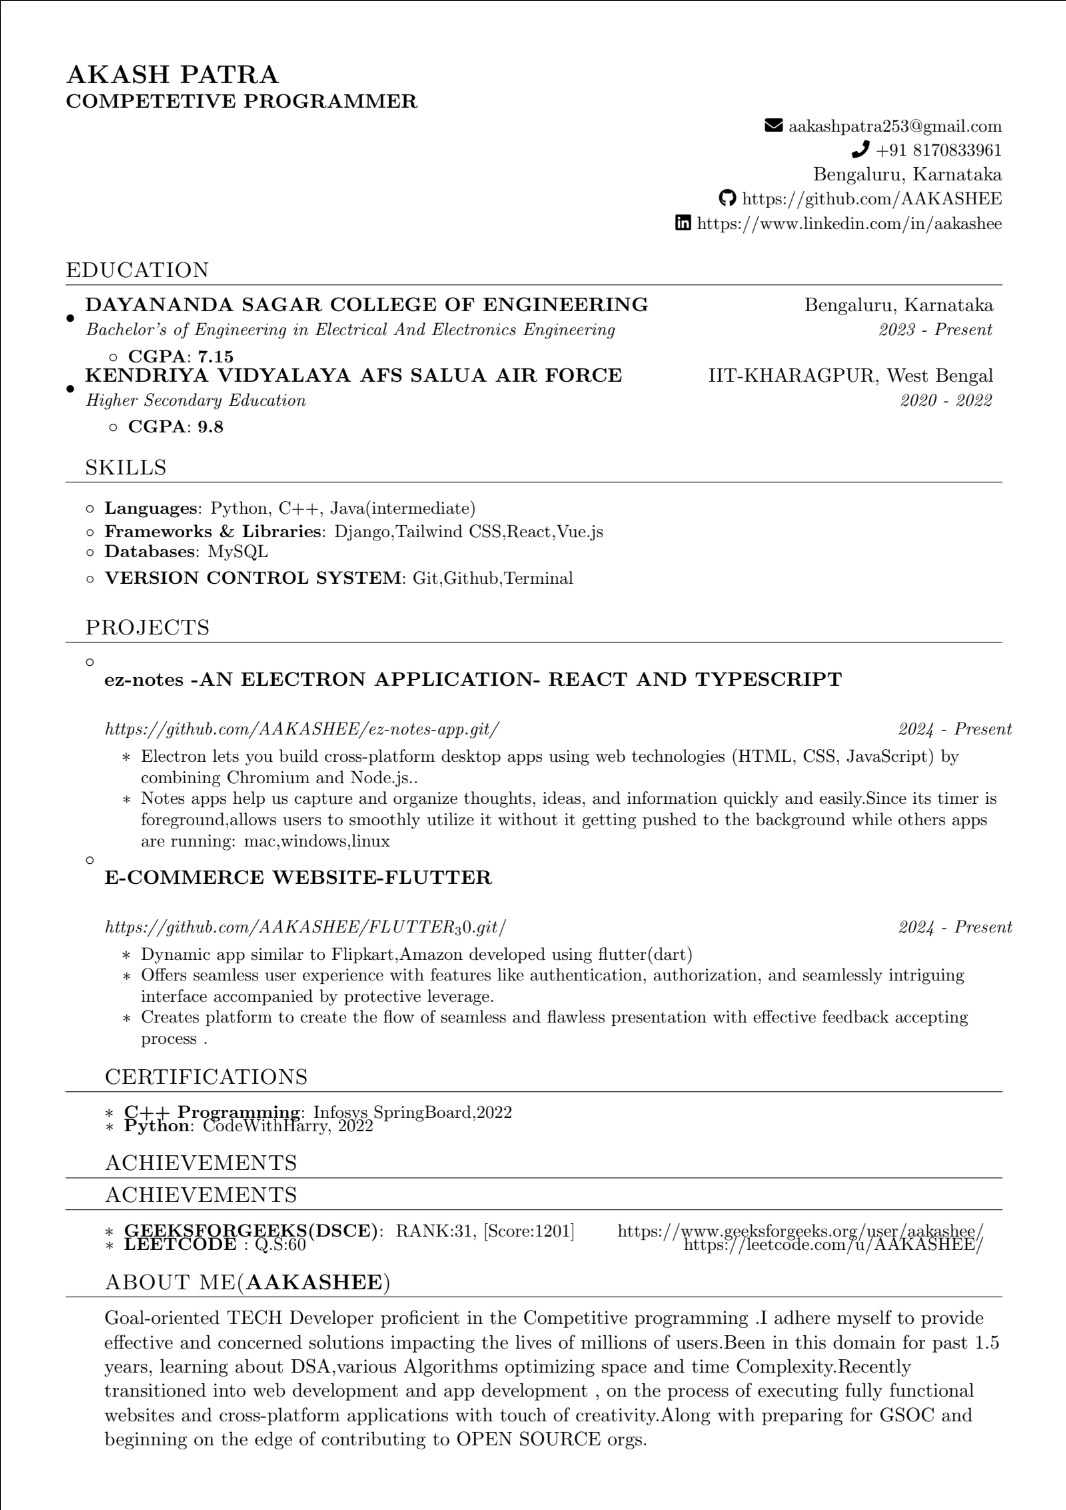
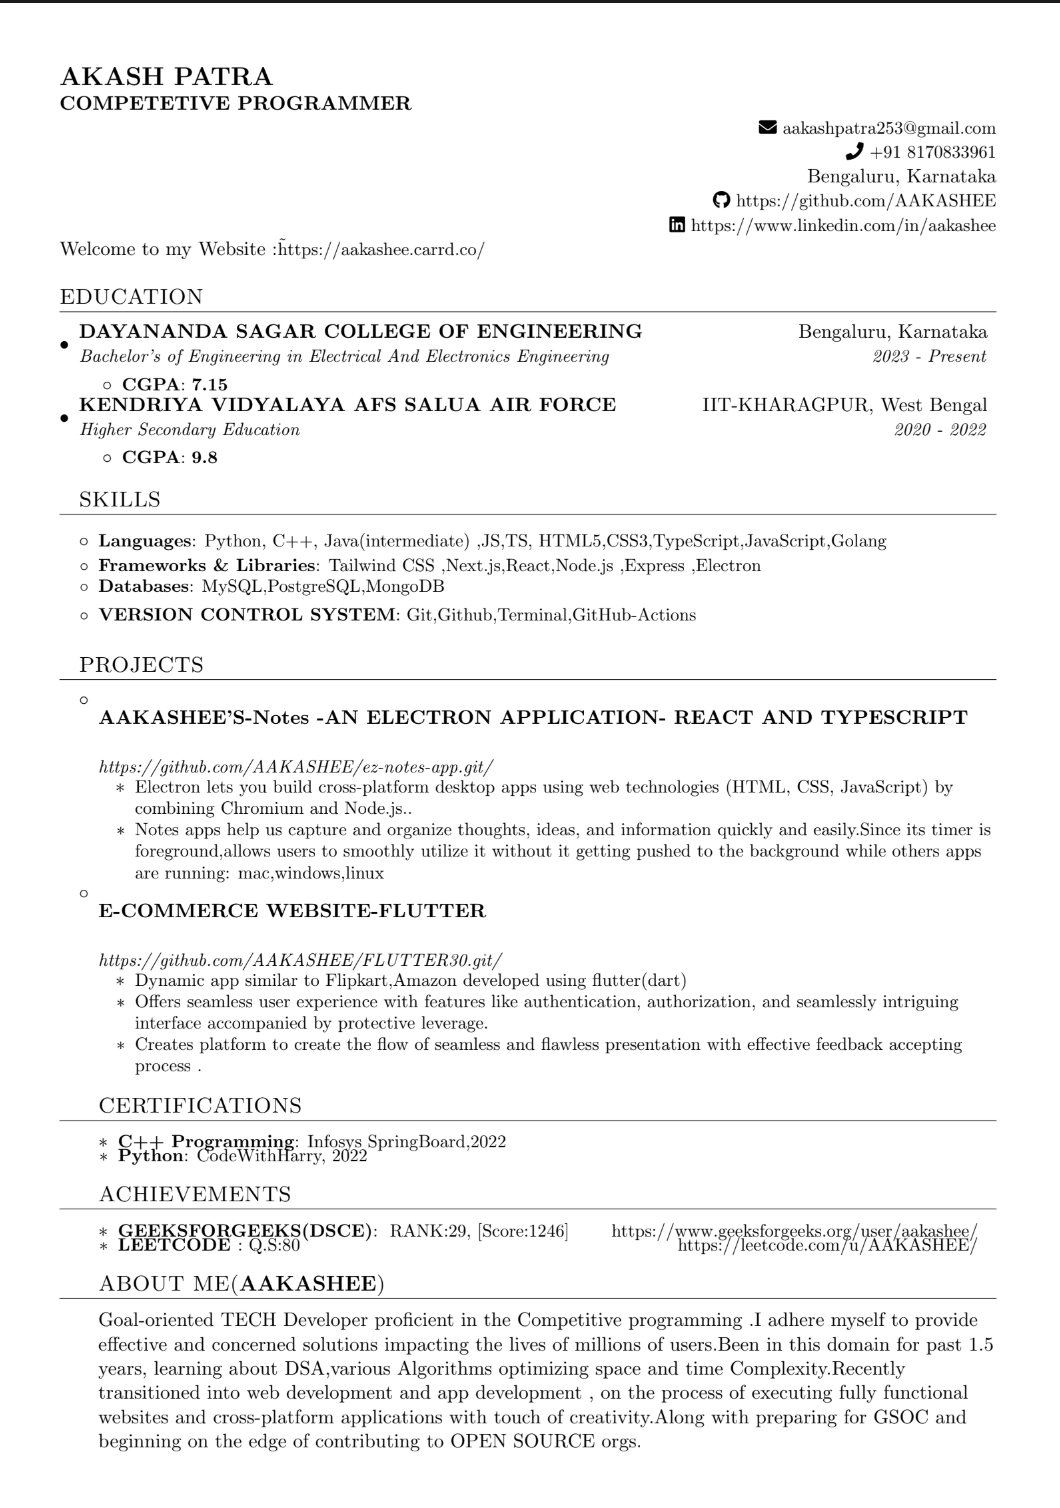
updated skills section and its respective relations

diff --git a/src/data/skills.ts b/src/data/skills.ts
@@ -48,10 +48,6 @@ export const skills = [
     icon: "https://raw.githubusercontent.com/devicons/devicon/master/icons/nodejs/nodejs-original.svg",
   },
   {
-    name: "Express",
-    icon: "https://raw.githubusercontent.com/devicons/devicon/master/icons/express/express-original.svg",
-  },
-  {
     name: "Electron",
     icon: "https://raw.githubusercontent.com/devicons/devicon/master/icons/electron/electron-original.svg",
   },

diff --git a/src/utils/iconMap.ts b/src/utils/iconMap.ts
@@ -35,8 +35,6 @@ export const getSkillIcon = (skillName: string): string | null => {
 
     Nodejs:
       "https://raw.githubusercontent.com/devicons/devicon/master/icons/nodejs/nodejs-original.svg",
-    Express:
-      "https://raw.githubusercontent.com/devicons/devicon/master/icons/express/express-original.svg",
 
     HTML5:
       "https://raw.githubusercontent.com/devicons/devicon/master/icons/html5/html5-original.svg",
